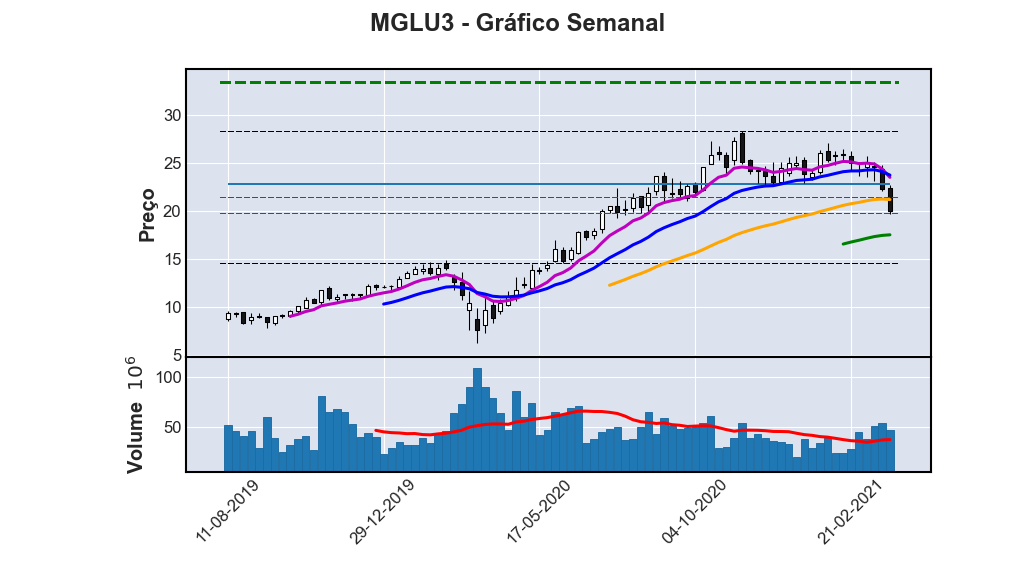
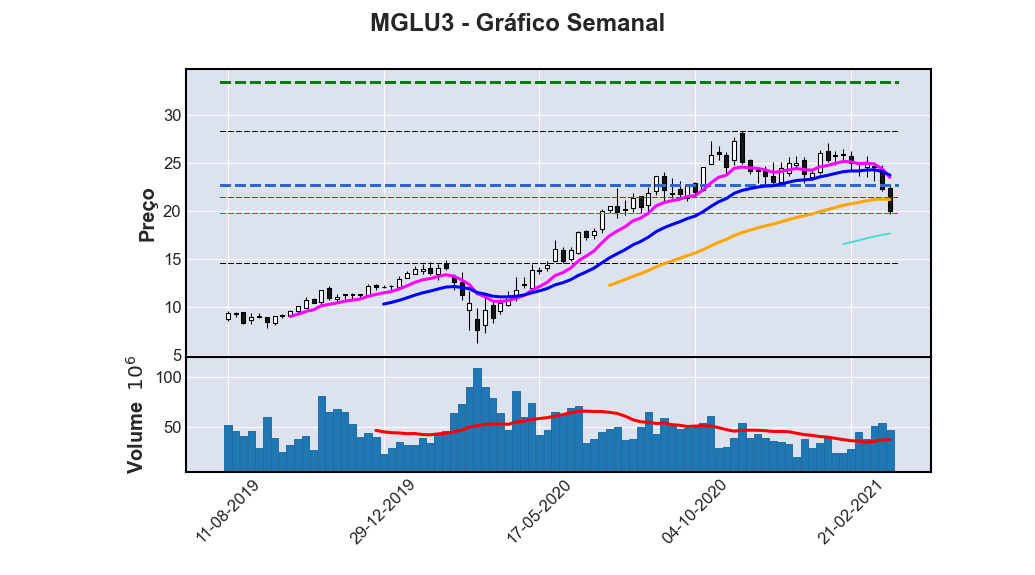
Implementando analise batch

diff --git a/graficos.py b/graficos.py
@@ -5,13 +5,13 @@ import indicadores as ind
 from datetime import date
 
 
-def GeraGraficoEntrada(periodo, dados, Papel, toque):
+def GeraGraficoEntrada(periodo, dados, Papel, toque, dir):
 
 
     EMA9 = ind.CalculaEMA(dados, 9)
     EMA21 = ind.CalculaEMA(dados, 21)
     EMA50 = ind.CalculaEMA(dados, 50)    
-    EMA80 = ind.CalculaEMA(dados, 80)     
+    #EMA80 = ind.CalculaEMA(dados, 80)     
     VMA = ind.CalculaSMAVolume(dados, 20)
     IFR = ind.CalculaIFR(dados, 4)
 
@@ -19,14 +19,14 @@ def GeraGraficoEntrada(periodo, dados, Papel, toque):
     ap0 = [ mpf.make_addplot(EMA9,color='#FF00FF'),  # uses panel 0 by default
             mpf.make_addplot(EMA21,color='b'),  # uses panel 0 by default
             mpf.make_addplot(EMA50,color='#ffa500'),  # uses panel 0 by default
-            mpf.make_addplot(EMA80,color='#008000'),  # uses panel 0 by default            
+           # mpf.make_addplot(EMA80,color='#008000'),  # uses panel 0 by default            
             mpf.make_addplot(VMA,color='r', panel=1),   
         ]
 
     hoje = date.today()
 
 
-    dir= 'C:/Users/Nob/Documents/Workspace/AnaliseFinanceira/imagens/'
+
     filename = dir + Papel + '-'+ hoje.strftime('%d-%m-%Y')+ '.png' 
 
     entrada = dados.iat[dados.shape[0] - 1, 1]
@@ -44,14 +44,14 @@ def GeraGraficoEntrada(periodo, dados, Papel, toque):
         dados,  
         title='\n'+Papel+ ' - Gráfico '+periodo,  
         ylabel='Preço',  
-        type='candle', mav=(200), 
+        type='candle', mav=(80), 
         addplot=ap0, 
         datetime_format='%d-%m-%Y',
         savefig=filename,
         figratio=(18,10),  
-        fill_between=dict(y1=entrada,y2=(entrada+0.2)),
+        #fill_between=dict(y1=entrada,y2=(entrada+0.2)),
      
-        hlines=dict(hlines=[topo, fundo, r050, r061, p100], colors=['#000000', '#000000', '#FF0000', '#FF00FF', '#008000'] , linestyle='dashed', linewidths=[1,1,1,1,2]),
+        hlines=dict(hlines=[(entrada+0.01), topo, fundo, r050, r061, p100], colors=['#3366CC', '#000000', '#000000', '#FF0000', '#FF00FF', '#008000'] , linestyle='dashed', linewidths=[2, 1,1,1,1,2]),
         volume=True, 
         )
 

diff --git a/ativo.py b/ativo.py
@@ -1,23 +1,26 @@
 
 import datetime as datetime
 import investpy as inv
-
+import pandas as pd
 
 
 def ConsultaAtivo(tick):
 
     fim = datetime.date.today()
-    inicio = fim - datetime.timedelta(days=560)
+    inicio = fim - datetime.timedelta(days=600)
 
     dinicio = datetime.datetime.strptime(str(inicio), "%Y-%m-%d").strftime("%d/%m/%Y") 
     dfim = datetime.datetime.strptime(str(fim), "%Y-%m-%d").strftime("%d/%m/%Y")
 
     #df = yf.Ticker(tick+".SA")
     #df = df.history(start=inicio, end=fim, interval="1d", prepost=True)   
-
-    df = inv.get_stock_historical_data(tick, country='brazil',  from_date=dinicio, to_date=dfim)
-    
-    df = df[df['Open']>0]
+    try:
+      df = inv.get_stock_historical_data(tick, country='brazil',  from_date=dinicio, to_date=dfim)
+      df = df[df['Open']>0]      
+    except:
+      df = pd.DataFrame()
+      print("Erro: "+ tick)     
+  
     return df
 
 def ConsultaAtivoSemanal(tick):
@@ -26,16 +29,18 @@ def ConsultaAtivoSemanal(tick):
 
 
 def GeraSemanal (df):
-  agg_dict = {'Open': 'first',
-    'High': 'max',
-    'Low': 'min',
-    'Close': 'last',
-    'Volume': 'mean',
-    'Currency': 'first'}
-# resampled dataframe
-# 'W' means weekly aggregation
-  r_df = df.resample('W').agg(agg_dict)
-
+  if (df.shape[0] > 0):
+    agg_dict = {'Open': 'first',
+      'High': 'max',
+      'Low': 'min',
+      'Close': 'last',
+      'Volume': 'mean',
+      'Currency': 'first'}
+  # resampled dataframe
+  # 'W' means weekly aggregation
+    r_df = df.resample('W').agg(agg_dict)
+  else:
+    r_df = df
   return r_df
 
 

diff --git a/analise.py b/analise.py
@@ -4,28 +4,43 @@ import fibonacci as fibo
 import graficos as g
 
 
-def AnalisaEntrada(ticker):
+def AnalisaEntrada(ticker, pasta):
+    print("Analisando "+ ticker)
+    pastaImagens= pasta + '/imagens/'
 
     dados = ativo.ConsultaAtivoSemanal(ticker)
-    ifr4 = ind.CalculaIFR(dados, 4)
+    tamanho = dados.shape[0]
+    print(str(tamanho))
+    if tamanho >= 80:
+        ifr4 = ind.CalculaIFR(dados, 4)
 
-    ifr4 = ifr4.tail(1)
+        ifr4 = ifr4.tail(1)
 
-    ifr = ifr4.iat[0,0]
+        ifr = ifr4.iat[0,0]
 
-    toque = fibo.AnalisaToqueFibo(dados)
+        mm9 = ind.CalculaEMA(dados, 9)
+        mm9 = mm9.tail(1)
+        vmm9 = mm9.iat[0,0]
 
-    print("IFR:"+str(ifr))
-    if toque[1] > 38.2 and ifr < 30:
-        print("Entrada! IFR:"+str(ifr))
-        g.GeraGraficoEntrada('Semanal', dados, ticker, toque)
+
+        mm80 = ind.CalculaSMA(dados, 80)
+        mm80 = mm80.tail(1)
+        vmm80 = mm80.iat[0,0]
+
+        toque = fibo.AnalisaToqueFibo(dados)
+
+        if toque[1] > 38.2 and ifr < 30 and vmm9 > vmm80:
+            print("Entrada! IFR:"+str(ifr))
+            g.GeraGraficoEntrada('Semanal', dados, ticker, toque, pastaImagens)
+        else:
+            print(toque)
     else:
-        print(toque)
+        toque = [ '', 0.0, 0.0, 0.0, 0, 0]
 
     return toque
     
 
-res = AnalisaEntrada("RENT3")
+#res = AnalisaEntrada("RENT3")
 
 
 

diff --git a/analise_ativos.py b/analise_ativos.py
@@ -1,0 +1,17 @@
+import pandas as pd
+import analise
+
+pasta = "C:/Users/Nob/Documents/Workspace/AnaliseFinanceira/"
+
+dados = pd.read_csv(pasta+'ativos.csv', sep=';')
+dados = dados.dropna(subset=['TICKER'])
+
+dados.set_index('TICKER', inplace=True)
+Tickers = dados.index
+print(str(Tickers))
+
+for Papel in Tickers: 
+    analise.AnalisaEntrada(Papel, pasta)
+
+
+#print(dados)
